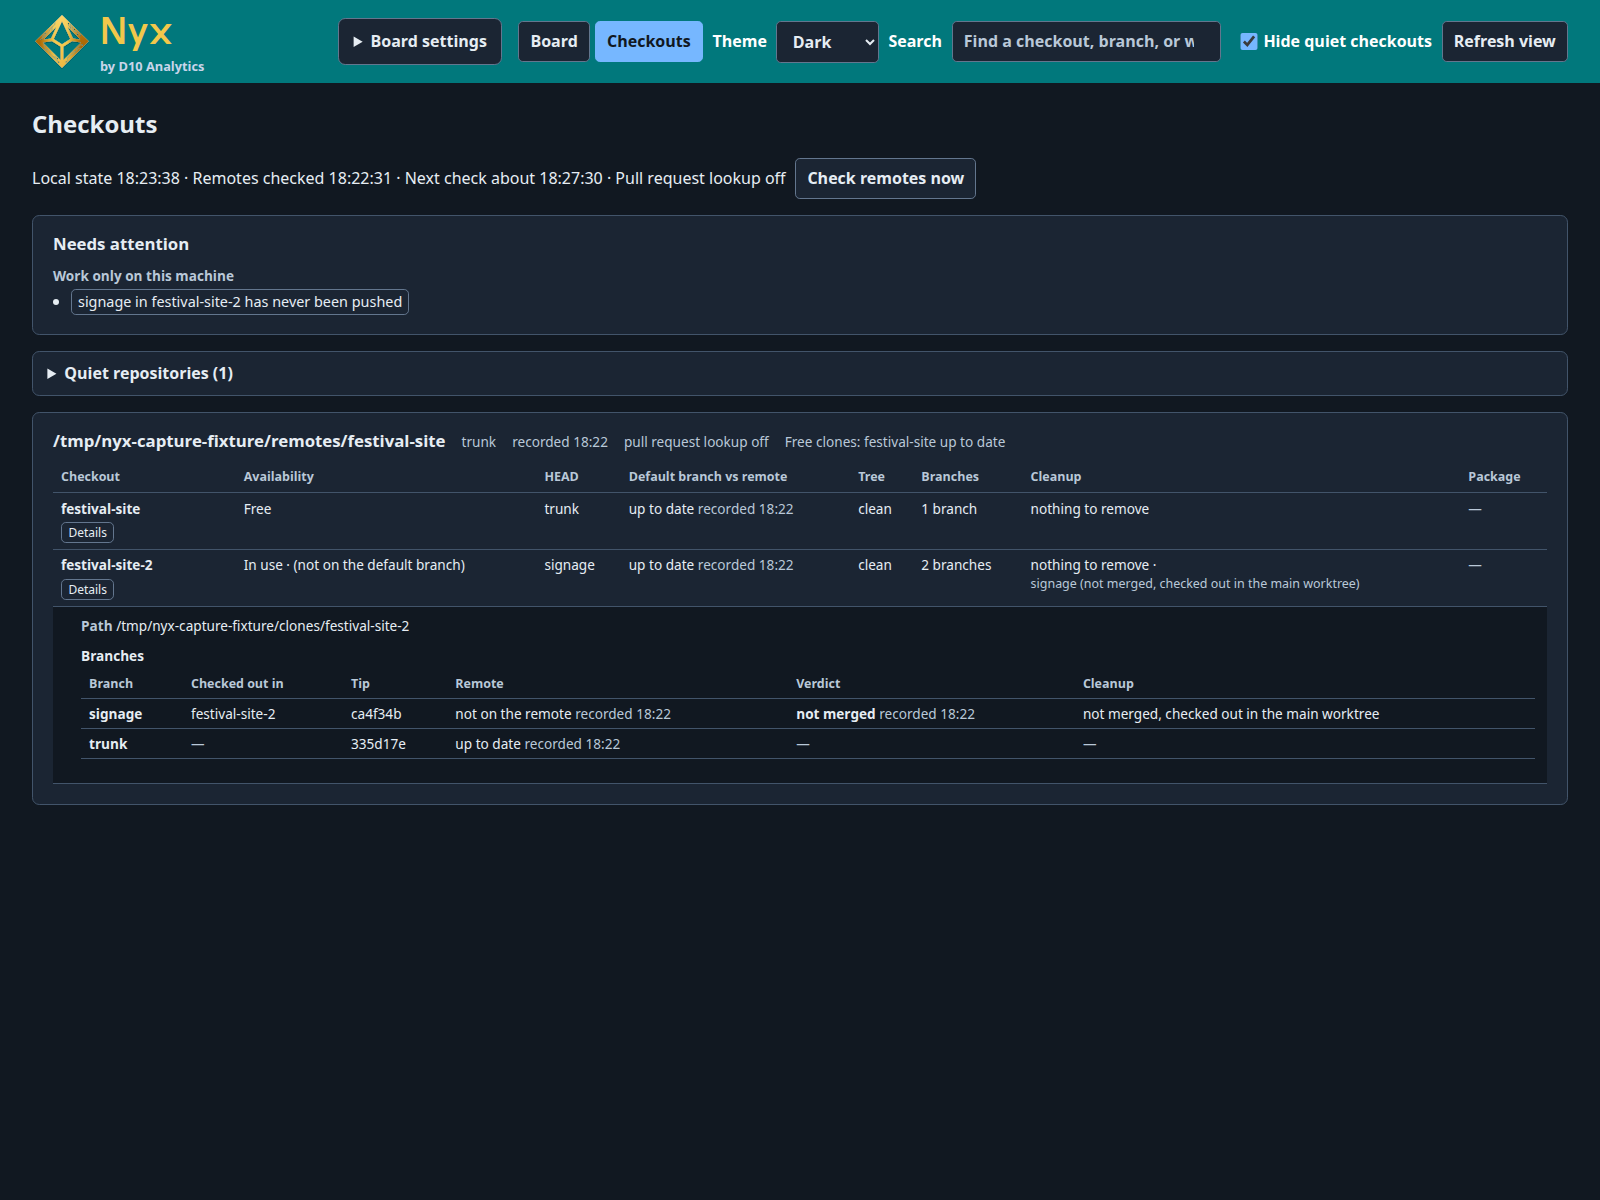
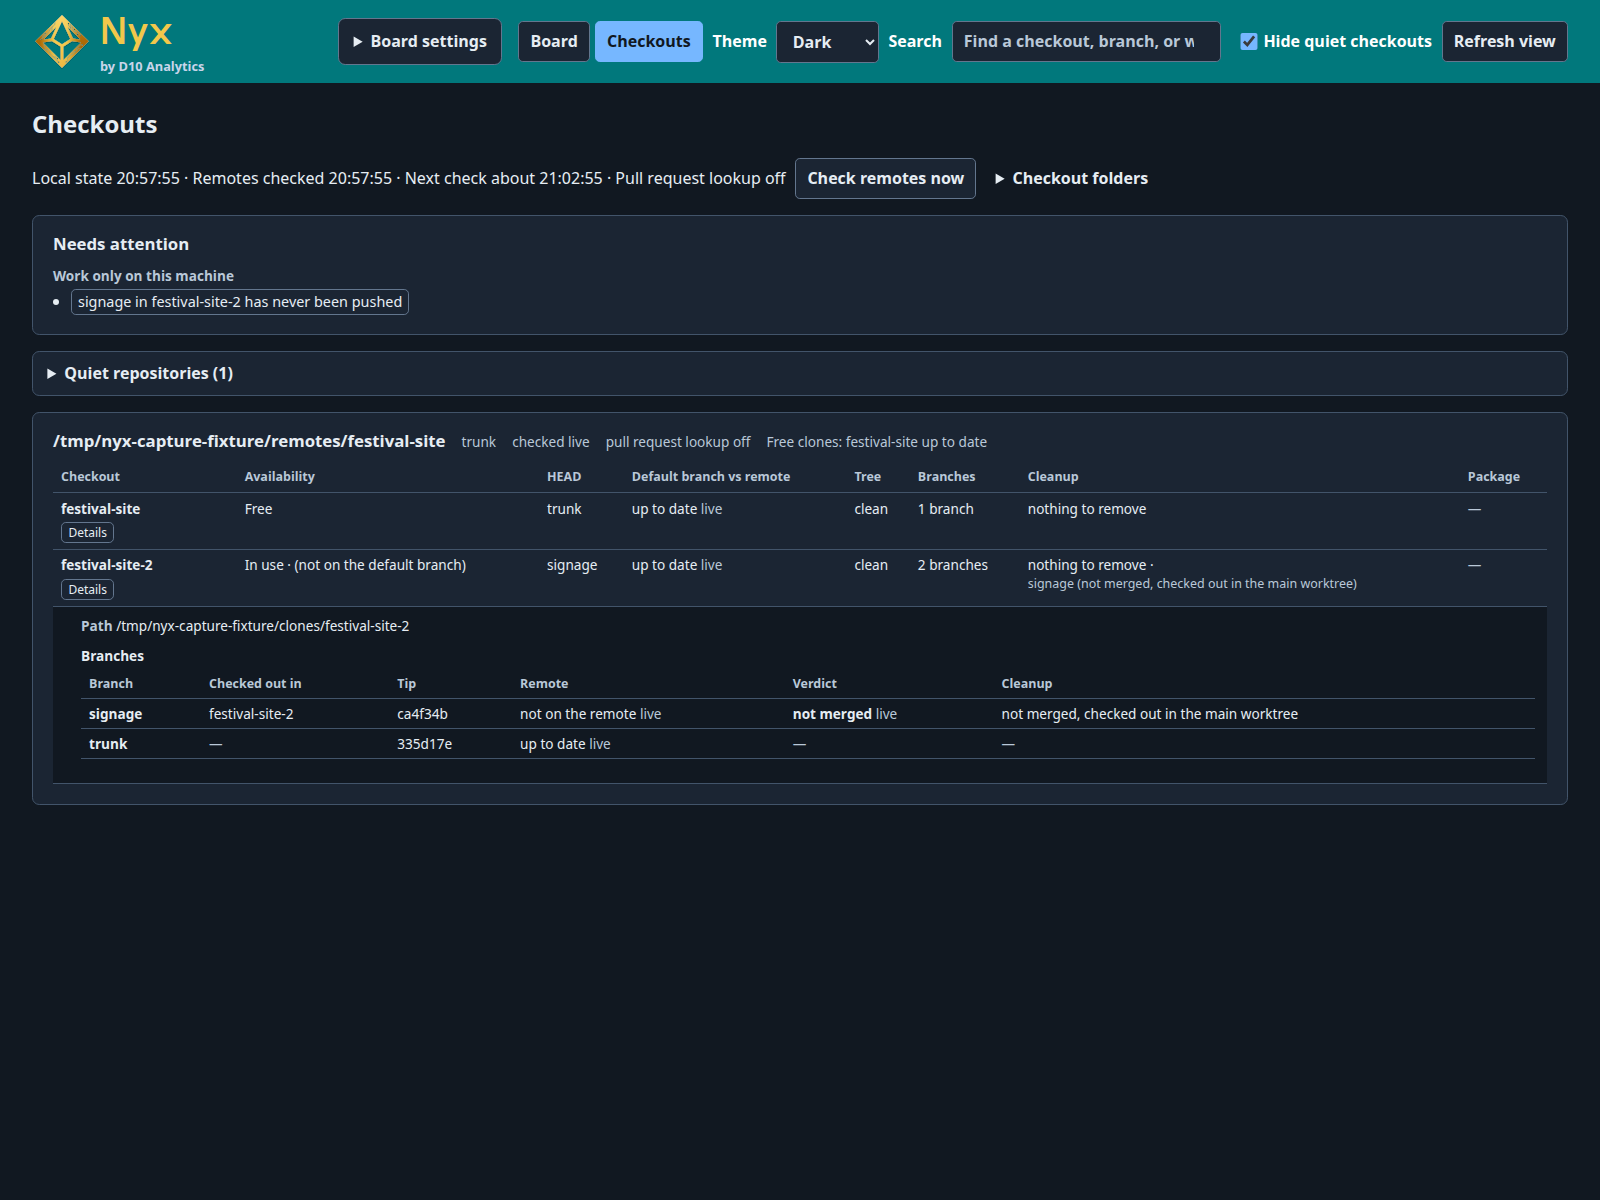
Recapture the Checkouts image with the Checkout folders control

diff --git a/docs/running-nyx.md b/docs/running-nyx.md
@@ -1523,7 +1523,8 @@ panel. Each board image shows the **Board** and **Checkouts** switch in the
 toolbar with **Board** selected.
 
 The fourth image is dark, 1600 × 1200, with **Checkouts** selected and **Hide
-quiet checkouts** checked. It shows the status line with **Check remotes now**,
+quiet checkouts** checked. It shows the status line with **Check remotes now** and the closed
+**Checkout folders** control,
 the **Needs attention** list with its one item, the **Quiet repositories** row,
 and the repository with two clones, with the second clone's **Details** open.
 Create its fictional fixture outside the repository, beside the workspace
